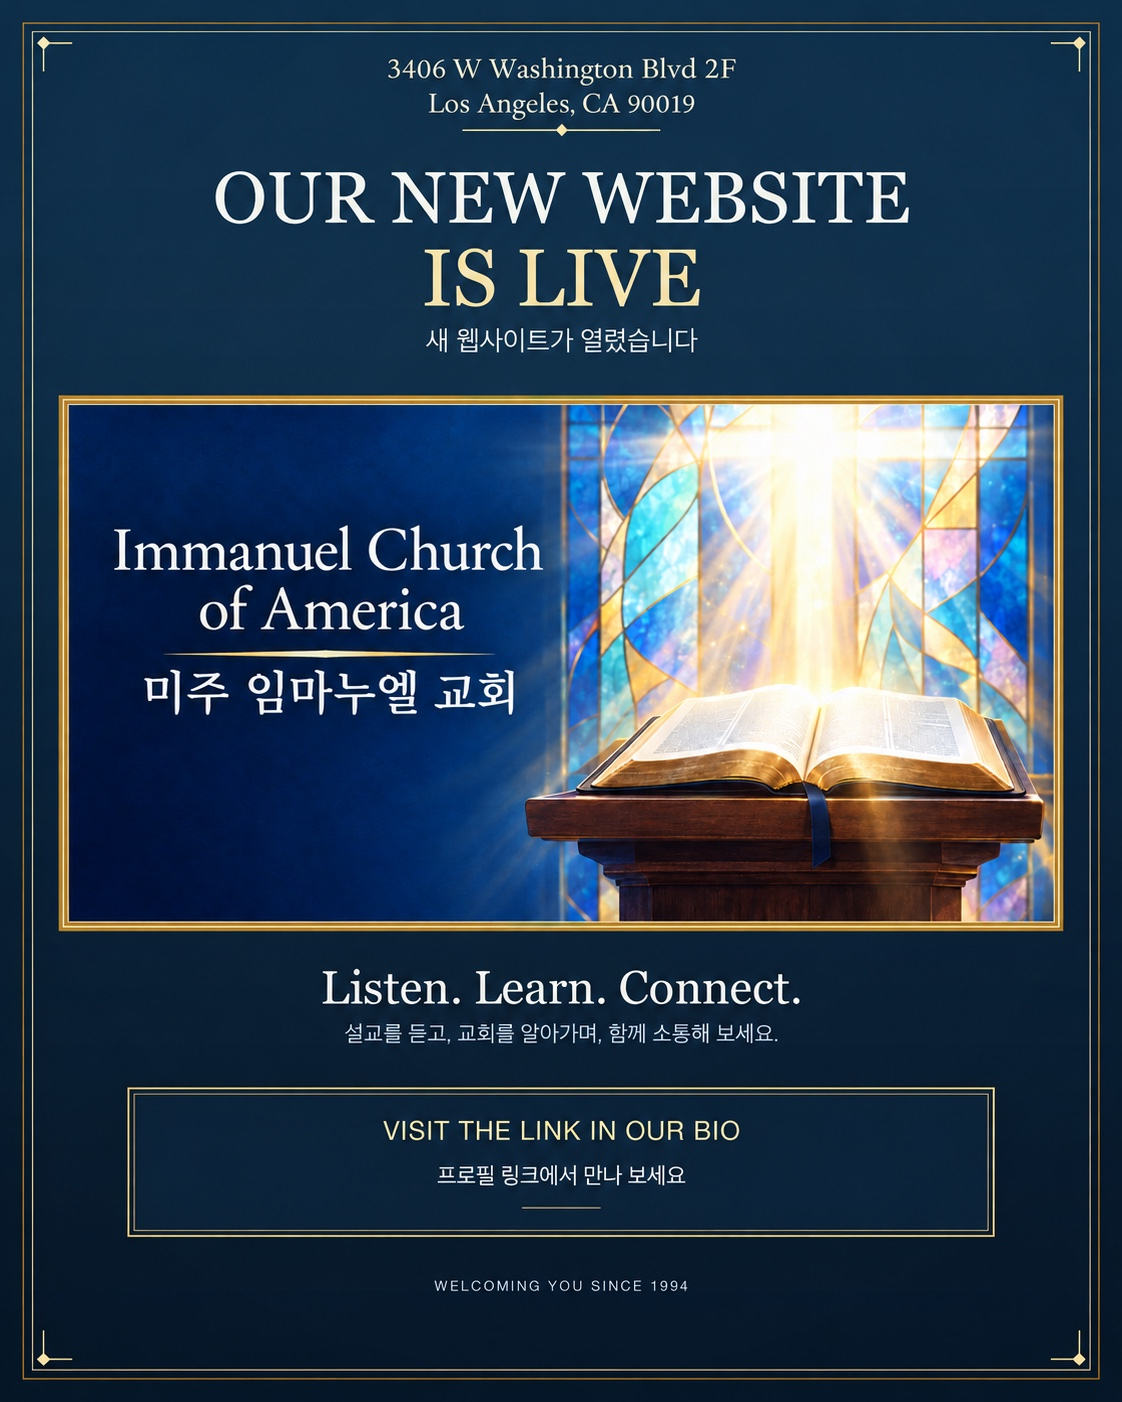
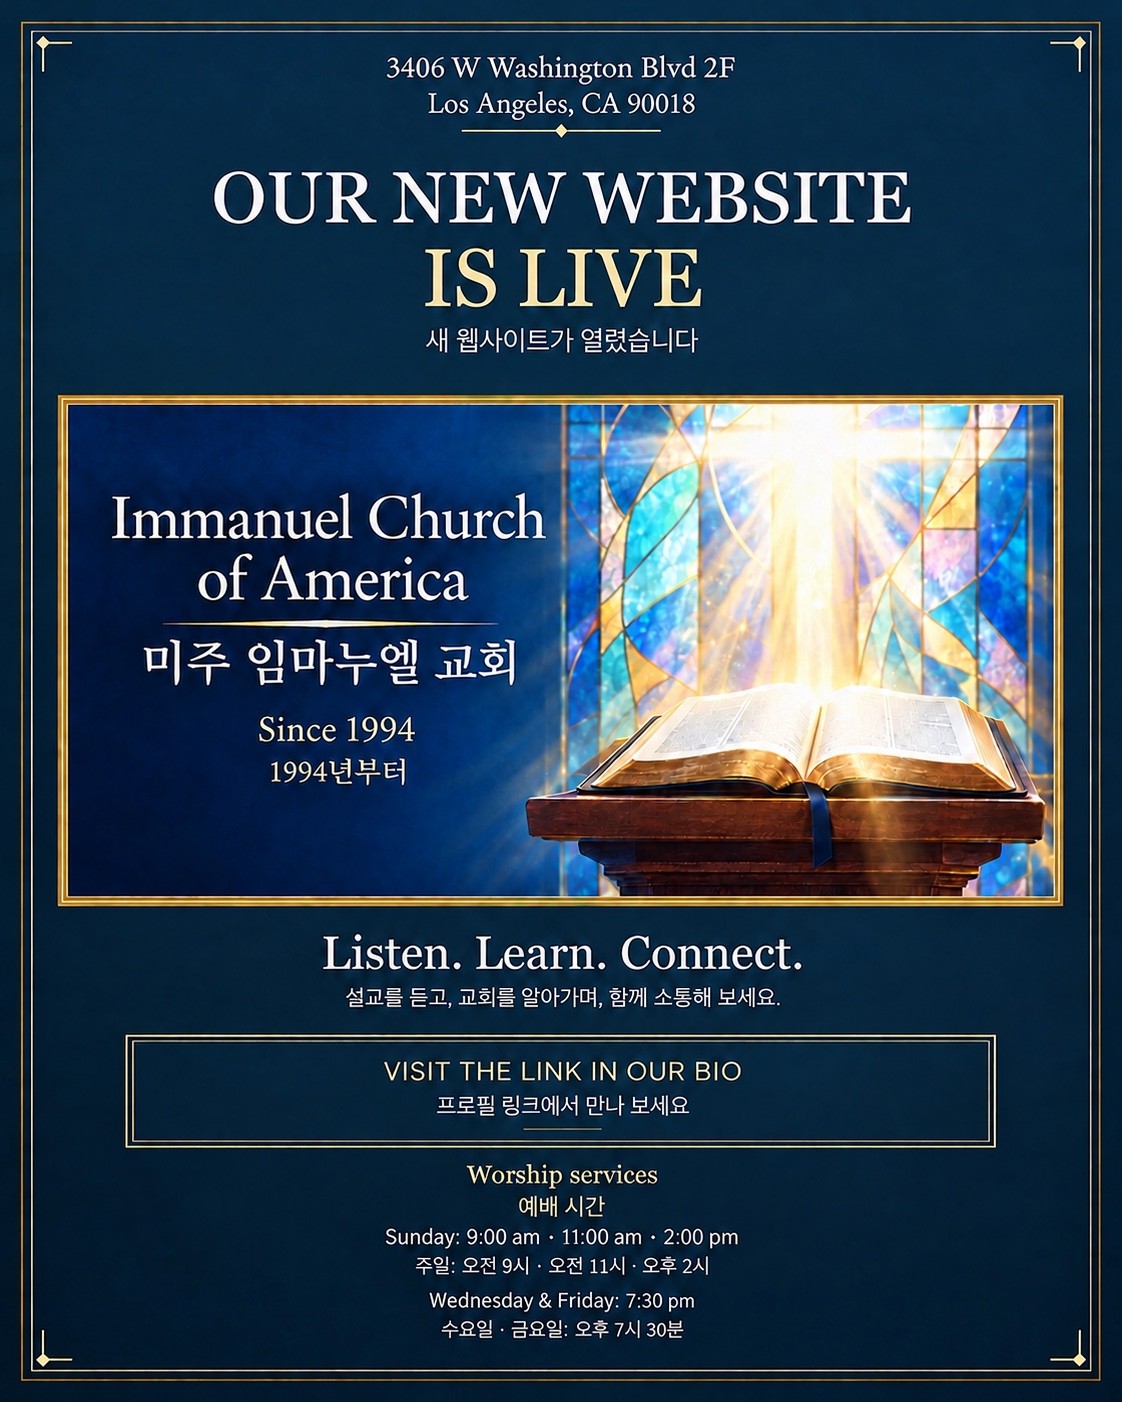
Update zip code

diff --git a/tests/app.test.js b/tests/app.test.js
@@ -138,7 +138,7 @@ test('public pages render, landing is the information page', async (t) => {
   assert.match(contactHtml, /The Glass of the Word<\/span>[\s\S]*<img src="\/favicon\.png"[\s\S]*말씀의 거울/);
   assert.match(contactHtml, /For now we see through a glass, darkly;.*1 Corinthians 13:12/s);
   assert.match(contactHtml, /고린도전서 13:12/);
-  assert.match(contactHtml, /href="https:\/\/www\.google\.com\/maps\/place\/Immanuel\+Church\+of\+America\+%2F\+%EB%AF%B8%EC%A3%BC%EC%9E%84%EB%A7%88%EB%88%84%EC%97%98%EA%B5%90%ED%9A%8C\/@34\.0397122,-118\.3242422,17z\/data=!3m1!4b1!4m6!3m5!1s0x80c2b867941260c9:0xc64dfc88582a36a6!8m2!3d34\.0397078!4d-118\.3216673!16s%2Fg%2F1262s7wvv\?entry=ttu&amp;g_ep=EgoyMDI2MTEwMi4wIKXMDSoASAFQAw%3D%3D" target="_blank" rel="noopener noreferrer">[\s\S]*3406 W Washington Blvd 2F<br>Los Angeles, CA 90019/);
+  assert.match(contactHtml, /href="https:\/\/www\.google\.com\/maps\/place\/Immanuel\+Church\+of\+America\+%2F\+%EB%AF%B8%EC%A3%BC%EC%9E%84%EB%A7%88%EB%88%84%EC%97%98%EA%B5%90%ED%9A%8C\/@34\.0397122,-118\.3242422,17z\/data=!3m1!4b1!4m6!3m5!1s0x80c2b867941260c9:0xc64dfc88582a36a6!8m2!3d34\.0397078!4d-118\.3216673!16s%2Fg%2F1262s7wvv\?entry=ttu&amp;g_ep=EgoyMDI2MTEwMi4wIKXMDSoASAFQAw%3D%3D" target="_blank" rel="noopener noreferrer">[\s\S]*3406 W Washington Blvd 2F<br>Los Angeles, CA 90018/);
   assert.match(contactHtml, /href="https:\/\/www\.instagram\.com\/immanuelchurchofamerica\/" target="_blank" rel="noopener noreferrer">@immanuelchurchofamerica/);
   for (const detail of [
     'Sunday: 9:00 am, 11:00 am, and 2:00 pm',

diff --git a/lib/render.js b/lib/render.js
@@ -239,7 +239,7 @@ export function contactPage() {
   <h2>${bi('Visit us', '오시는 길')}</h2>
   <address class="contact-address">
     <a href="https://www.google.com/maps/place/Immanuel+Church+of+America+%2F+%EB%AF%B8%EC%A3%BC%EC%9E%84%EB%A7%88%EB%88%84%EC%97%98%EA%B5%90%ED%9A%8C/@34.0397122,-118.3242422,17z/data=!3m1!4b1!4m6!3m5!1s0x80c2b867941260c9:0xc64dfc88582a36a6!8m2!3d34.0397078!4d-118.3216673!16s%2Fg%2F1262s7wvv?entry=ttu&amp;g_ep=EgoyMDI2MTEwMi4wIKXMDSoASAFQAw%3D%3D" target="_blank" rel="noopener noreferrer">
-      3406 W Washington Blvd 2F<br>Los Angeles, CA 90019
+      3406 W Washington Blvd 2F<br>Los Angeles, CA 90018
     </a>
   </address>
   <p>${bi('Follow us on Instagram', '인스타그램에서 교회 소식을 만나 보세요')}:
